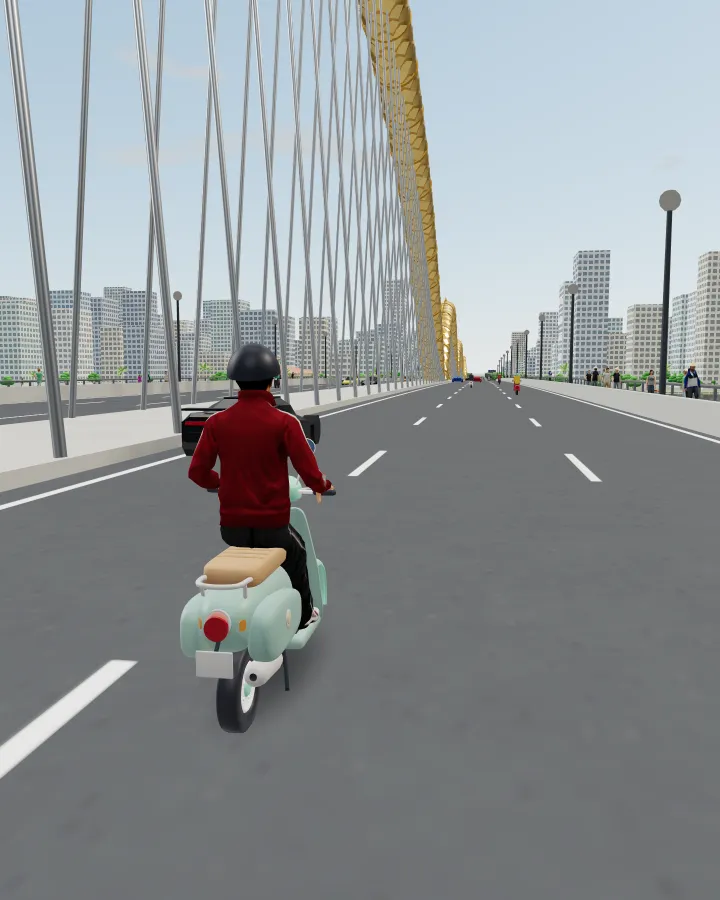
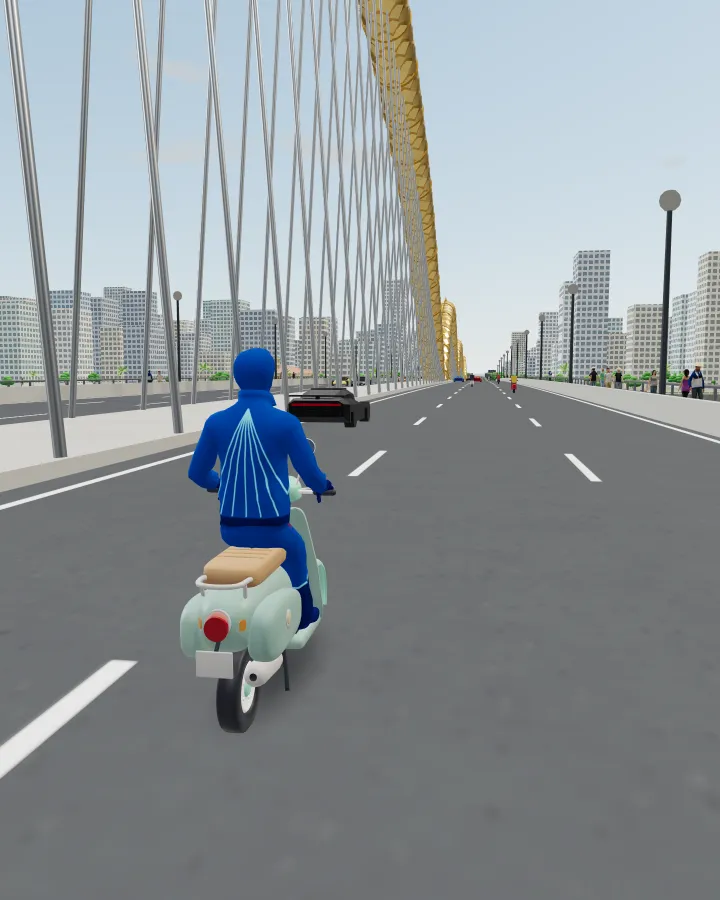
feat(chooser): chụp lại thẻ Đi dạo / Xe máy với nhân vật siêu anh hùng (D-048)
Thẻ Đi dạo vòng camera ra trước mặt nhân vật và ẩn lưới đám đông *-people lúc chụp.

Entire-Checkpoint: 01M7FSR682ZHN14H8KBE83VXGD

diff --git a/.github/memory-bank/activeContext.md b/.github/memory-bank/activeContext.md
@@ -35,7 +35,7 @@ _Cập nhật: 2026-11-15 · Nhánh đang làm: `feature/nhan-vat-sieu-anh-hung`
 - Quy tắc chế độ gọn cho agent: `.github/instructions/ui-views.instructions.md`, `tests.instructions.md`. Lệnh test đầy đủ: `copilot-instructions.md` §5. Bảng draw call chuẩn: `tests/KET-QUA.md`.
 
 ## Bước tiếp theo
-- Siêu anh hùng (D-048): người dùng xem demo (`npm run dev` trong worktree, thẻ Đi dạo / Xe máy, đổi Nam / Nữ ở sảnh). **Cần người dùng quyết:** (a) thiết kế hai bộ đồ (màu, tỉ lệ đỏ, kính): sửa `paint()` rồi `gen:hero` + `gen:thumbs`; (b) mũ bảo hiểm khi lái (`helmet.show`); (c) chụp lại ảnh thẻ màn chọn `walk.webp` / `bike.webp` (`gen:chooser`, hiện vẫn là người thường); (d) tên riêng cho hai anh hùng trong giao diện (hiện chỉ "Nam" / "Nữ"); (e) bản dịch `stChar` 8 ngôn ngữ cần người bản ngữ duyệt. Hạn chế: quần áo Rocketbox giữ hình (cổ áo khoác đứng, quần rộng, tà áo nữ); mặt nạ còn nổi khối mũi / tai / tóc khối nữ; dáng `photo` giơ tay không máy ảnh; ảnh sảnh vẽ không có `uNight` nên đường chỉ nam sáng sẵn. Khi chạy bộ test một lần: `test:char` (kiểm mô hình 5 / 6), `test:stroll`, `test:bike`, `test:mobile`, `test:drawcalls` (góc cũ +0), `test:perf -- --strict` (+1 program phát sáng khi vào chế độ). Worktree có junction `node_modules` (gỡ trước khi xóa).
+- Siêu anh hùng (D-048): người dùng xem demo (`npm run dev` trong worktree, thẻ Đi dạo / Xe máy, đổi Nam / Nữ ở sảnh). **Cần người dùng quyết:** (a) thiết kế hai bộ đồ (màu, tỉ lệ đỏ, kính): sửa `paint()` rồi `gen:hero` + `gen:thumbs`; (b) mũ bảo hiểm khi lái (`helmet.show`); (c) ảnh thẻ màn chọn `walk.webp` / `bike.webp` đã chụp lại với anh hùng nam (2026-11-15, theo lời người dùng; thẻ Đi dạo vòng camera ra trước mặt và ẩn các lưới đám đông `*-people` lúc chụp, người đội nón lá vẫn còn ở xa); chụp thẻ xe máy in một lỗi console `reading 'isReady'` (lỗi three khi biên dịch shader chồng prewarm, cùng loại ghi ở `intro/index.ts`), ảnh không ảnh hưởng; (d) tên riêng cho hai anh hùng trong giao diện (hiện chỉ "Nam" / "Nữ"); (e) bản dịch `stChar` 8 ngôn ngữ cần người bản ngữ duyệt. Hạn chế: quần áo Rocketbox giữ hình (cổ áo khoác đứng, quần rộng, tà áo nữ); mặt nạ còn nổi khối mũi / tai / tóc khối nữ; dáng `photo` giơ tay không máy ảnh; ảnh sảnh vẽ không có `uNight` nên đường chỉ nam sáng sẵn. Khi chạy bộ test một lần: `test:char` (kiểm mô hình 5 / 6), `test:stroll`, `test:bike`, `test:mobile`, `test:drawcalls` (góc cũ +0), `test:perf -- --strict` (+1 program phát sáng khi vào chế độ). Worktree có junction `node_modules` (gỡ trước khi xóa).
 - Núi Sơn Trà (D-047, `feature/son-tra-nui-rung`): đã merge PR #45; chưa kiểm bản Netlify sau merge. Khi chạy bộ test một lần: `test:drawcalls` (góc cũ phải +0), `test:perf -- --strict`, `test:explore` (cất cánh trên đỉnh). **Cần người dùng quyết / biết:** (a) từ mặt Cầu Rồng và Trần Thị Lý nhà cao tầng bờ Đông che phần lớn núi (thành phố không đổi theo yêu cầu); (b) Hải Vân cũng đổi theo cùng kỹ thuật (ngoài câu chữ yêu cầu, vì chung lưới); (c) giữa bãi Mỹ Khê và nhánh Đông Nam của núi vẫn là biển như trước (không đổi địa lý); (d) sắc xanh, độ đậm vân tán, dải đá mép nước chỉnh ở `CONFIG.sonTra`. Hạn chế: không đèn trên núi ban đêm (núi là bóng tối); núi không đổ / nhận bóng (như cũ); vân tán là texture lát, nhìn rất gần (dù lượn chạm sườn) thấy mờ; worktree có junction `node_modules` (gỡ junction trước khi xóa).
 - Đoạn giới thiệu (D-045, PR #44): đã merge; chưa kiểm bản Netlify sau merge; worktree `.worktrees/intro-dien-anh` còn junction `node_modules`. Khi chạy bộ test một lần sau này: `test:mobile`, `test:explore`, `test:stroll`, `test:drive`, `test:bike`, `test:tour`, `test:drawcalls` (góc cũ phải +0), `test:perf -- --strict`. **Cần người dùng quyết:** tự phát một lần mỗi phiên hay chỉ lần đầu trên máy; cảnh kết (Cầu sông Hàn nhỏ, nằm sau khối chữ); nhịp ô tô có lúc xe AI chồng tiêu đề; nhịp đi dạo mất chân trời; bản dịch `in*` 8 ngôn ngữ cần người bản ngữ duyệt (nghi tiêu đề hai nhịp cầu ở ko / ja / zh; `hi` `inTry_car` trùng `inTry_bike`). Chưa làm: review toàn nhánh, thử điện thoại thật, nghe nhạc thật trong intro; minor còn lại: `update` của nhịp mới chạy hai lần ở khung chuyển nhịp, `inUiSetup` không chặn gọi hai lần.
 - Nhạc chủ đề (D-046, PR #42): đã merge; chưa kiểm bản Netlify sau merge. Khi chạy bộ test một lần sau này: `test:voice`, `test:tour`, `test:weather` (gọi `audio.start()`), `test:mobile` + `test:explore` (hàng âm thanh nay hiện trong bảng ⚙ khi khám phá). Chỉnh theo tai ở `CONFIG.music` (`level` từng lớp, `modes`, `bpm`, `sting`, `autoStart`) và giai điệu ở `score.ts`; đổi mức thì chạy `npm run test:music`. **Cần người dùng quyết:** (a) giữ nhạc tổng hợp hay thay bằng bản thu thật (cần stem cùng nhịp / tông); (b) nhạc tự bật cho người chưa từng chọn; (c) tiếng "mở màn" khi vào chế độ. Worktree có junction `node_modules` (gỡ junction trước khi xóa).
